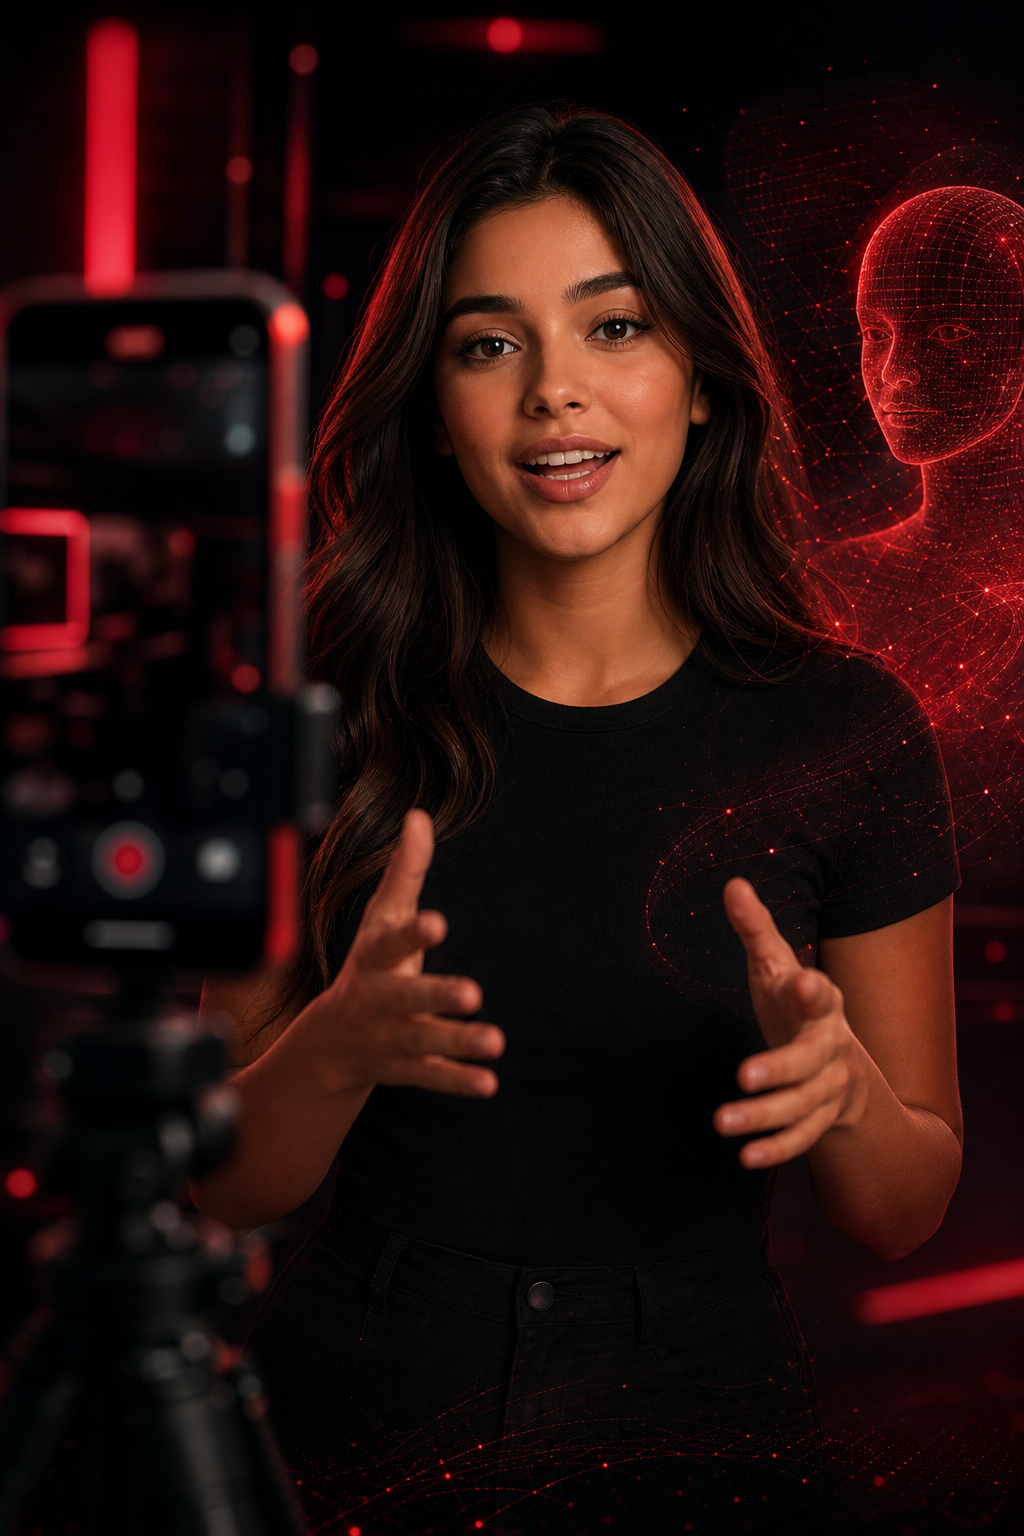
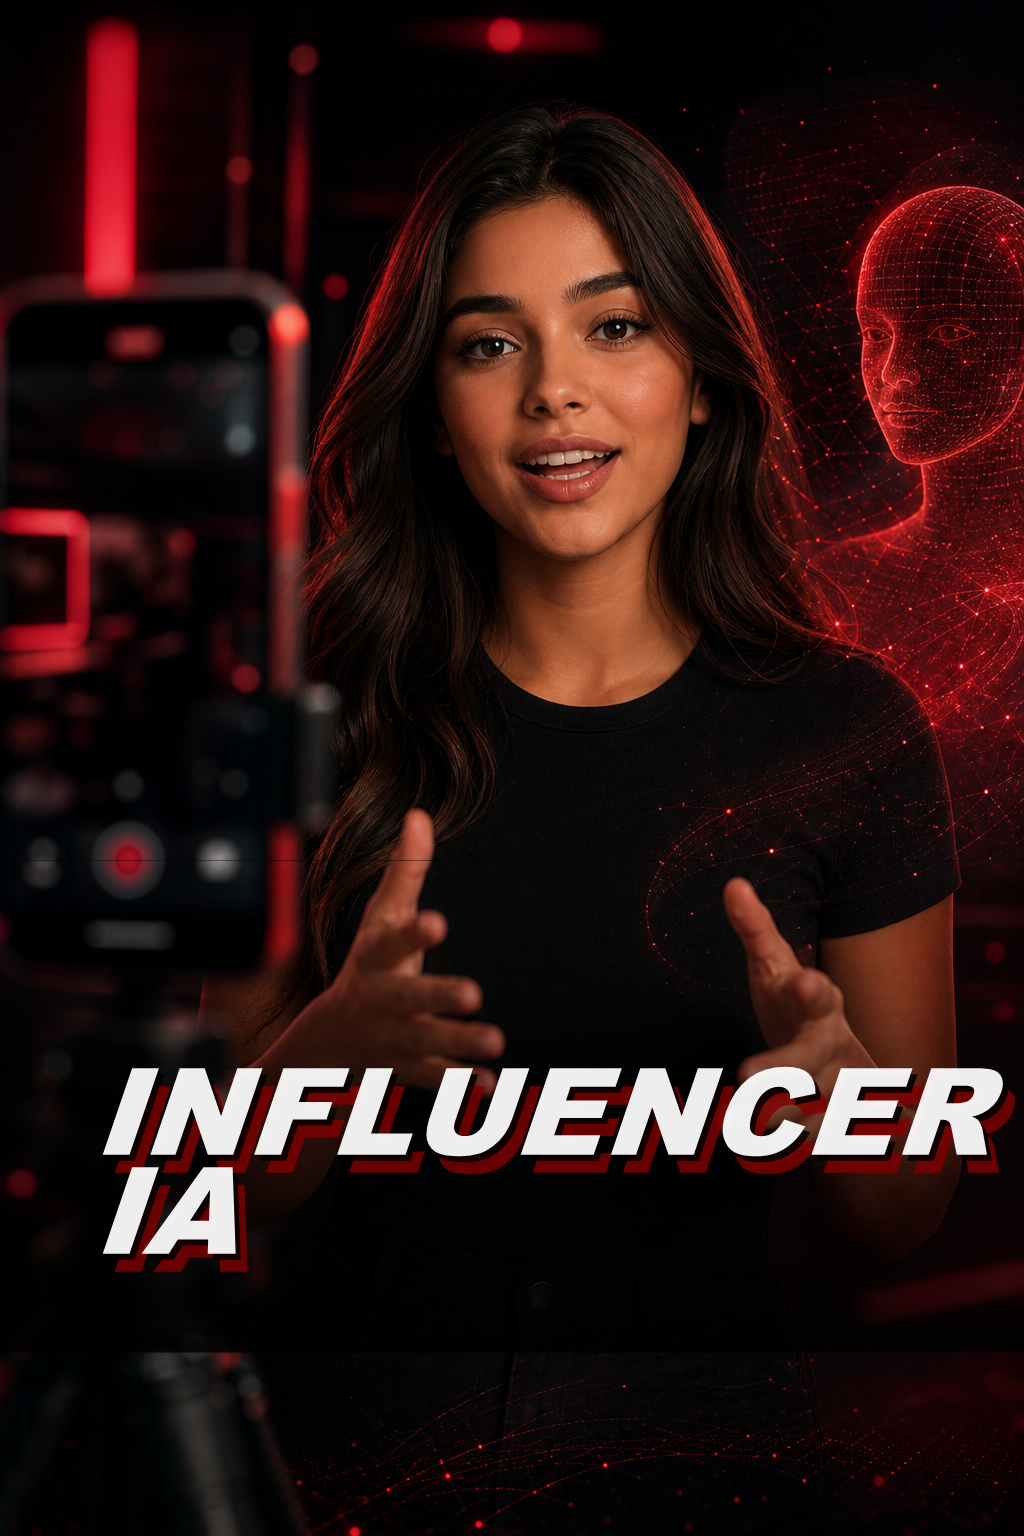
Ajusta opacidade e capas de influencer

diff --git a/index.html b/index.html
@@ -945,8 +945,8 @@
       position: absolute;
       inset: 0;
       background:
-        radial-gradient(circle at 55% 18%, rgba(255, 255, 255, 0.18), transparent 14%),
-        linear-gradient(180deg, rgba(0, 0, 0, 0.02), rgba(0, 0, 0, 0.12));
+        radial-gradient(circle at 55% 18%, rgba(255, 255, 255, 0.12), transparent 14%),
+        linear-gradient(180deg, rgba(0, 0, 0, 0.14), rgba(0, 0, 0, 0.32));
       pointer-events: none;
     }
 